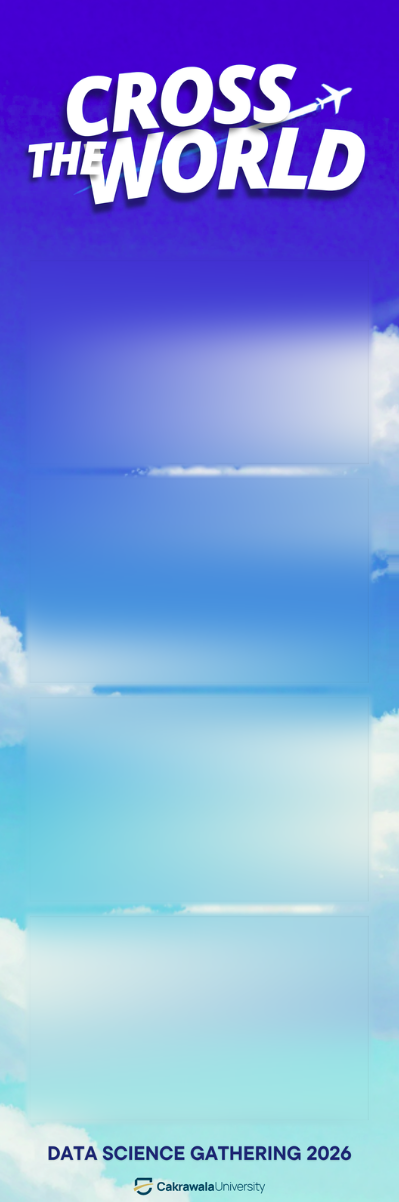
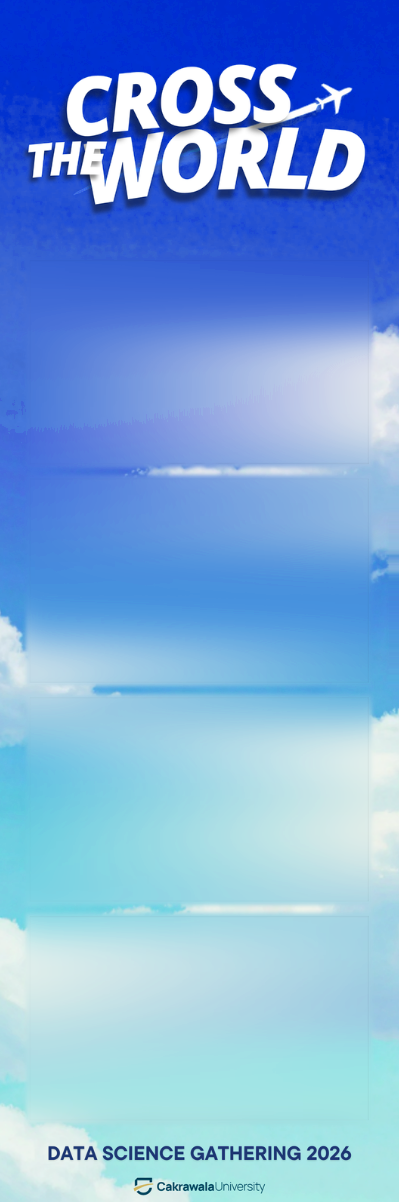
feat: update "Cross The World" frame colors and add new background images for Data Science Gathering 2026

Changed region(s): [[0.0, 0.0, 1.0, 0.3386]]

diff --git a/src/config/themes.ts b/src/config/themes.ts
@@ -5,7 +5,7 @@ import crossTheWorldBackground from '../assets/frames/cross-the-world-bg.png';
 export const FRAME_THEMES: FrameTheme[] = [
   { id: 'cross-the-world', tier: 'exclusive', name: 'Cross The World', category: 'Playful',
     description: 'Frame resmi Data Science Gathering 2026. Untuk strip 2, 3, dan 4 foto.',
-    bgValue: '#4b2bd6', textColor: '#ffffff', accentColor: '#7cc6f0',
+    bgValue: '#1f4fd8', textColor: '#ffffff', accentColor: '#7cc6f0',
     // Measured on the 399×1202 Canva export; photos bleed 1px past the original boxes.
     artwork: { src: crossTheWorldBackground, preview: crossTheWorldPreview, layouts: ['strip-2', 'strip-3', 'strip-4'],
       width: 399, height: 1202, headerBottom: 250, footerTop: 1131,
